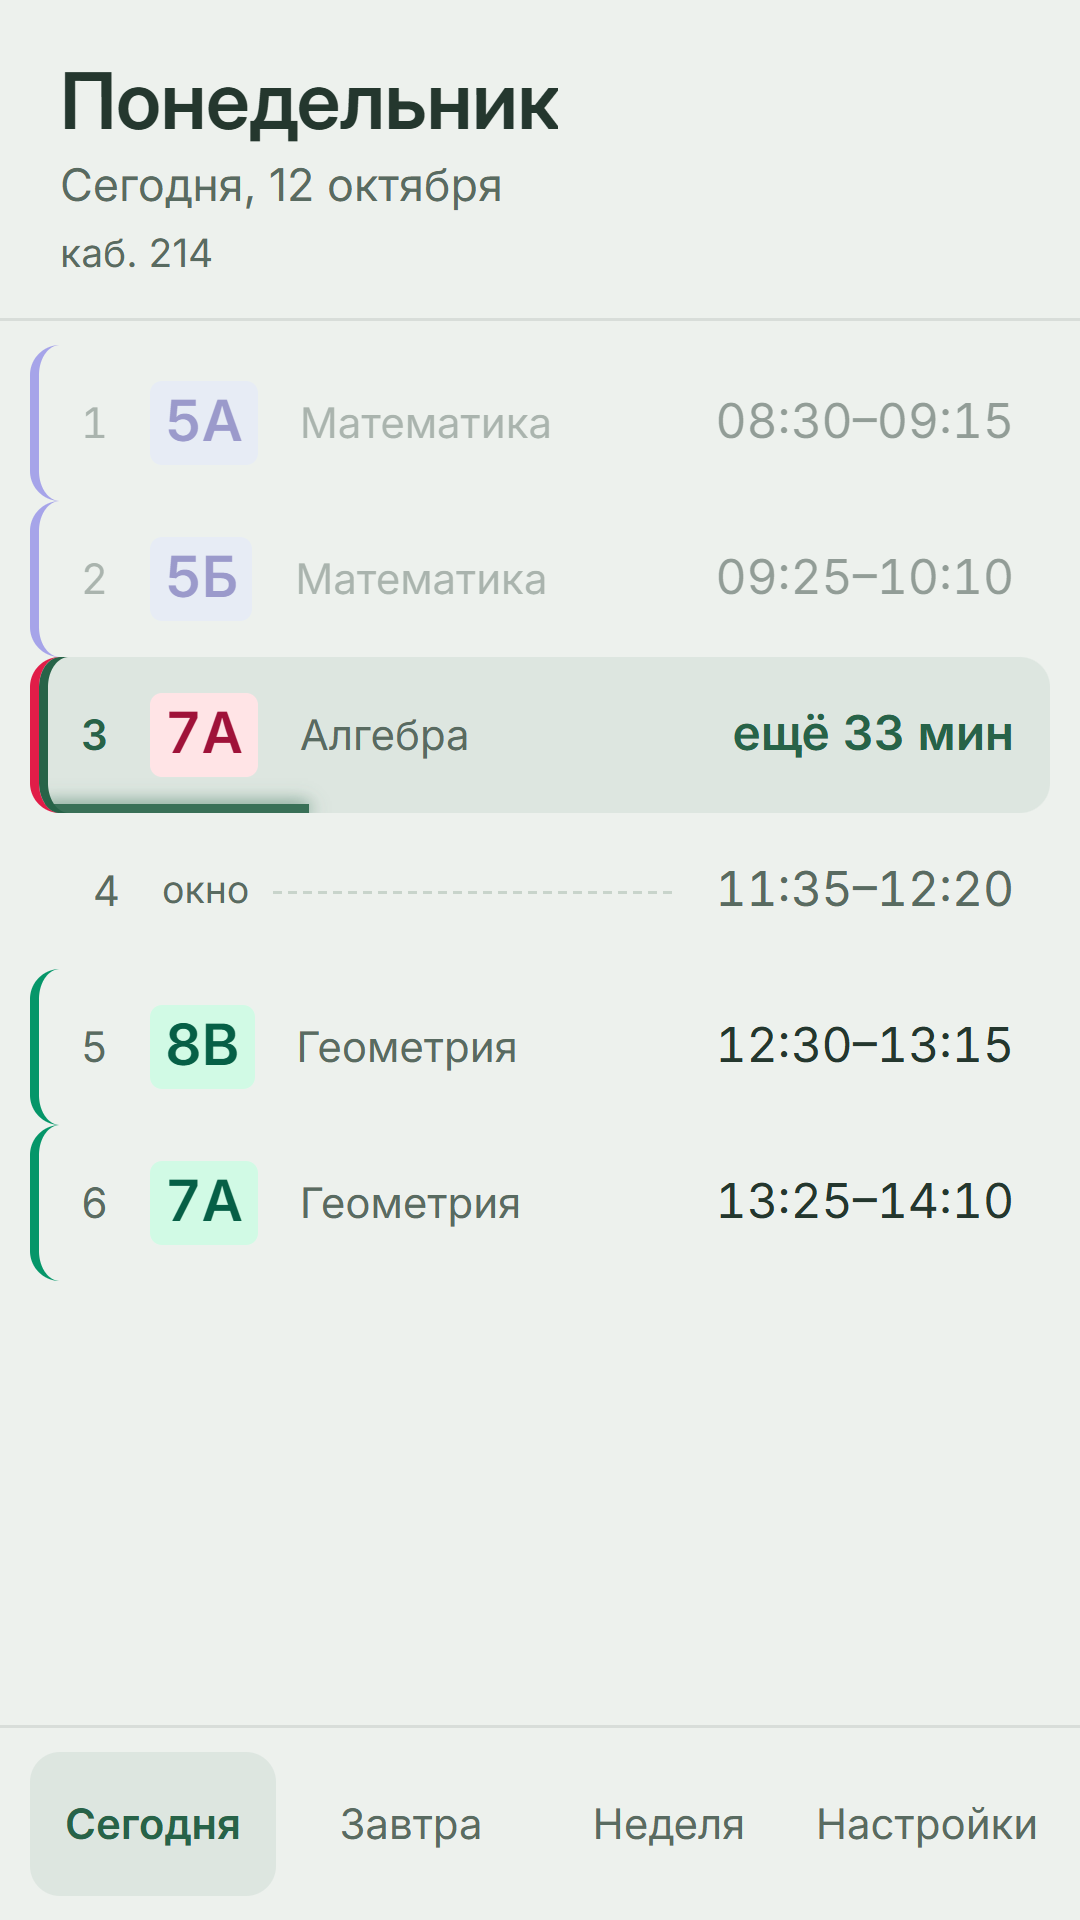
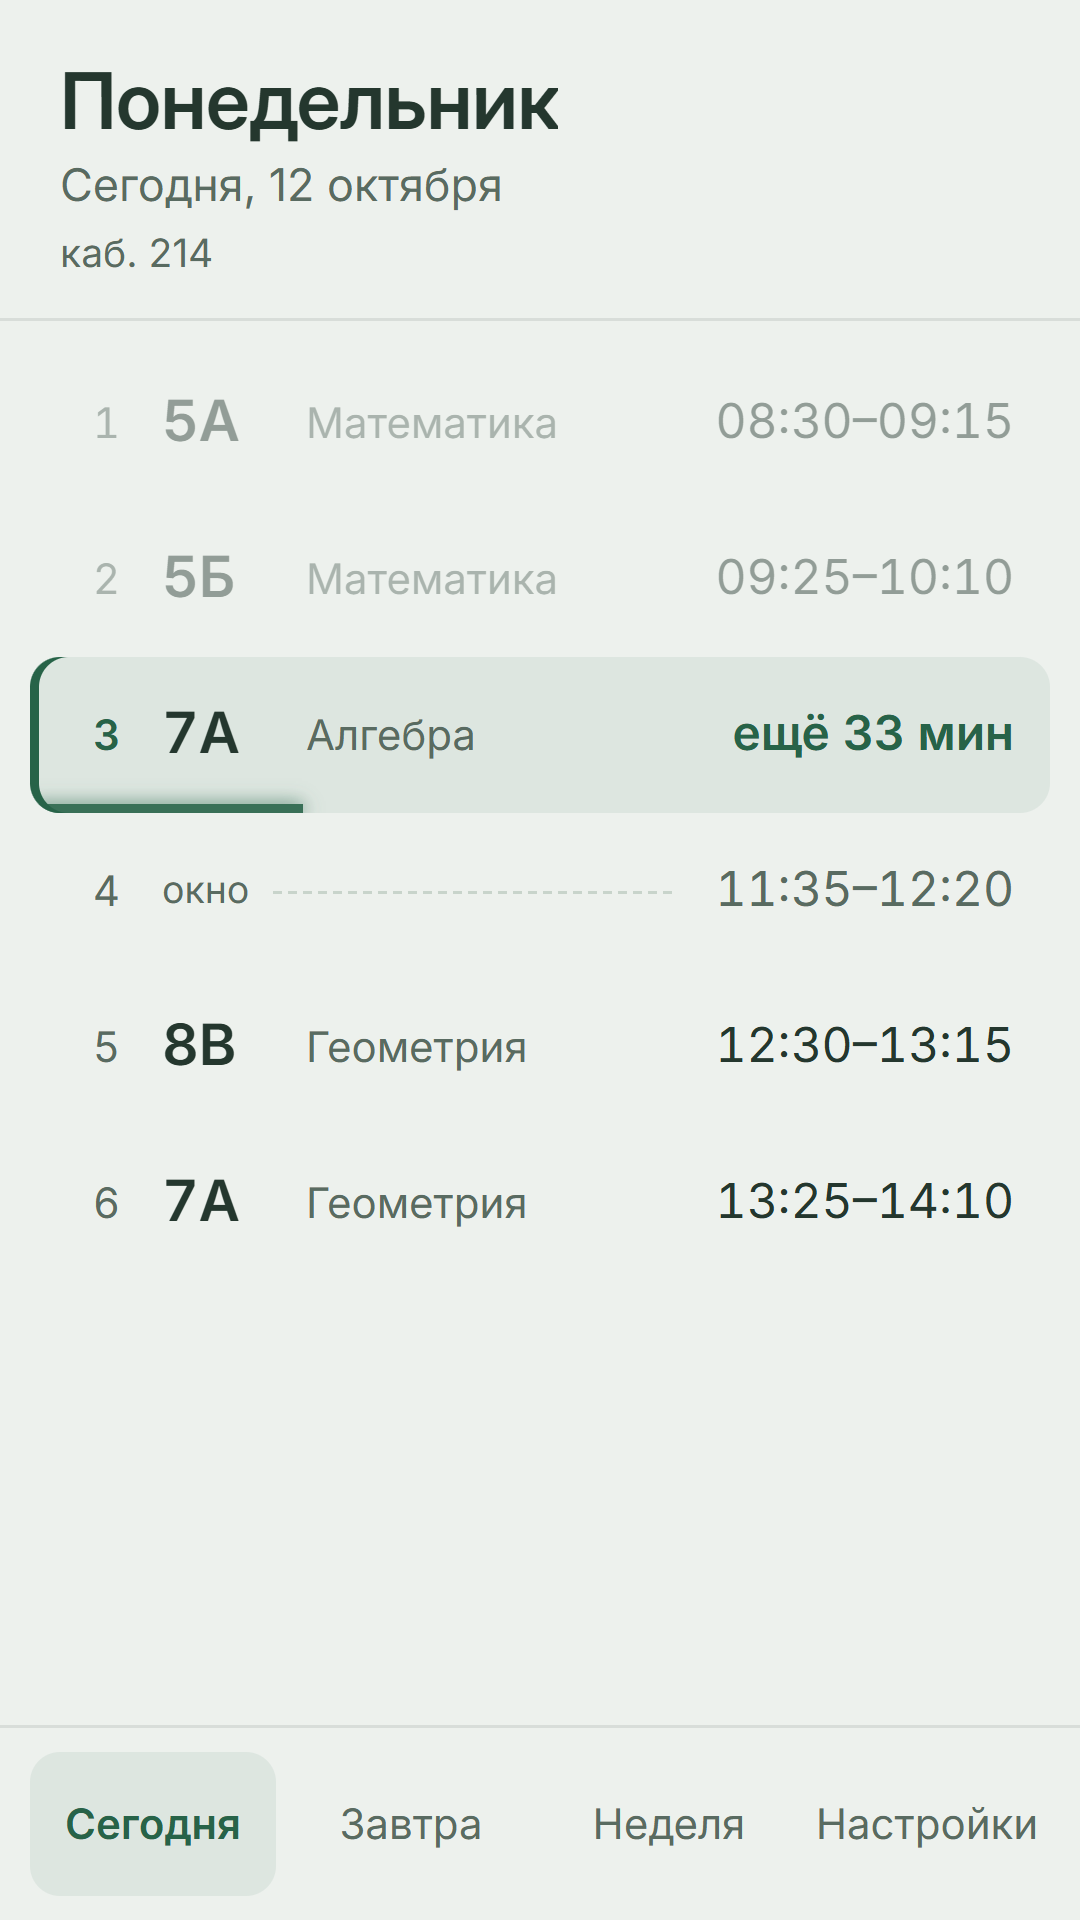
docs: RuStore screenshots for the free version «Расписание учителя»
Five 1080x1920 screenshots without colours or paid notifications.

diff --git a/docs/RUSTORE.md b/docs/RUSTORE.md
@@ -4,13 +4,13 @@
 
 ## Что уже готово
 
-| Что                         | Где                                                                                                         |
-| --------------------------- | ----------------------------------------------------------------------------------------------------------- |
-| Значок 512×512, PNG         | [store/rustore/icon-512.png](store/rustore/icon-512.png)                                                    |
-| Скриншоты 1080×1920, 6 штук | [store/rustore/](store/rustore/) — `01-segodnya` … `06-uroki`, загружать по порядку                         |
-| Политика конфиденциальности | https://github.com/kuzmin-lemmi/Teacher_Companion/blob/main/docs/PRIVACY.md                                 |
-| APK                         | `TeacherCompanion-Android.apk` из релиза на GitHub, подписан тем же ключом, пакет `ru.teachercompanion.app` |
-| Тексты карточки             | ниже — копировать как есть                                                                                  |
+| Что                         | Где                                                                                                                         |
+| --------------------------- | --------------------------------------------------------------------------------------------------------------------------- |
+| Значок 512×512, PNG         | [store/rustore/icon-512.png](store/rustore/icon-512.png)                                                                    |
+| Скриншоты 1080×1920, 5 штук | [store/rustore/](store/rustore/) — `01-segodnya` … `05-uroki`, загружать по порядку; сняты с бесплатной версией, без цветов |
+| Политика конфиденциальности | https://github.com/kuzmin-lemmi/Teacher_Companion/blob/main/docs/PRIVACY.md                                                 |
+| APK                         | `TeacherCompanion-Android.apk` из релиза на GitHub, подписан тем же ключом, пакет `ru.teachercompanion.app`                 |
+| Тексты карточки             | ниже — копировать как есть                                                                                                  |
 
 Скриншоты пересобираются из демо-расписания (`docs/examples/demo-backup.json`) скриптом в браузере, без личных данных и без строки состояния телефона.
 
